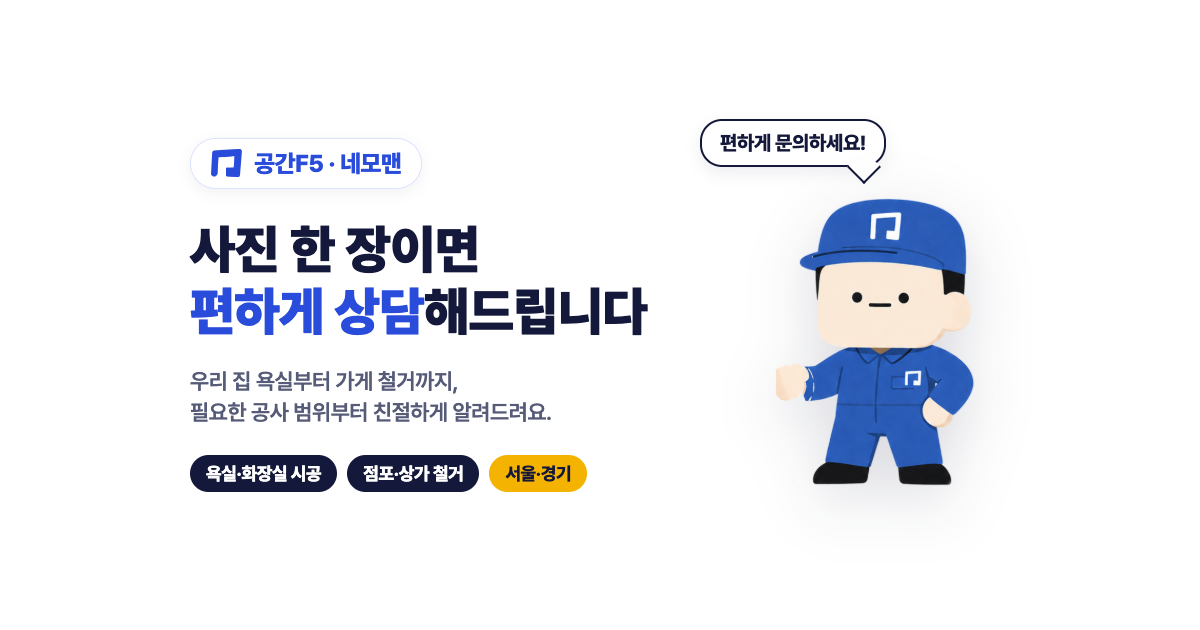
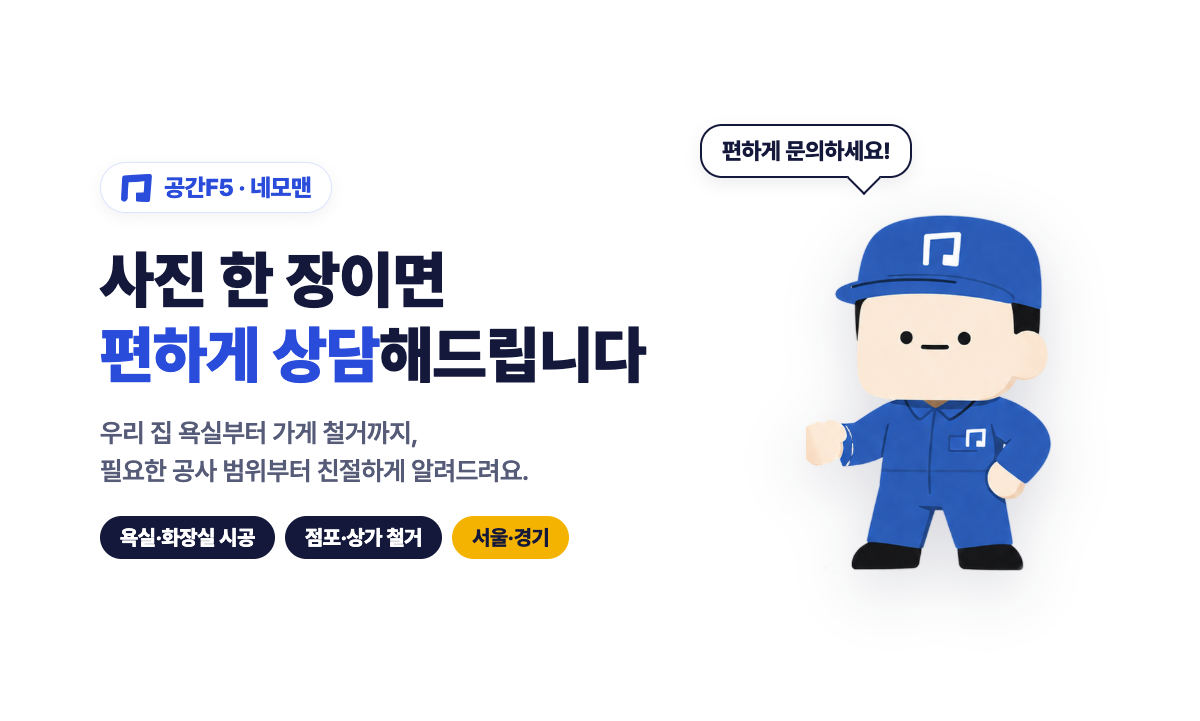
consult OG 이미지: 네이버 카드 비율(1200×721)로 재생성

diff --git a/consult.html b/consult.html
@@ -12,9 +12,9 @@
 <meta property="og:url" content="https://nemoman.pages.dev/consult.html">
 <meta property="og:title" content="상담 신청 | 공간F5 네모맨">
 <meta property="og:description" content="욕실 시공부터 점포·상가 철거까지, 사진 한 장으로 편하게 상담하세요. 서울·경기 전역.">
-<meta property="og:image" content="https://nemoman.pages.dev/og-consult.png">
+<meta property="og:image" content="https://nemoman.pages.dev/og-consult.png?v=3">
 <meta property="og:image:width" content="1200">
-<meta property="og:image:height" content="630">
+<meta property="og:image:height" content="721">
 <meta name="twitter:card" content="summary_large_image">
 <link rel="icon" type="image/svg+xml" href="favicon.svg">
 <link rel="stylesheet" href="https://cdn.jsdelivr.net/gh/orioncactus/pretendard@v1.3.9/dist/web/static/pretendard.min.css">
